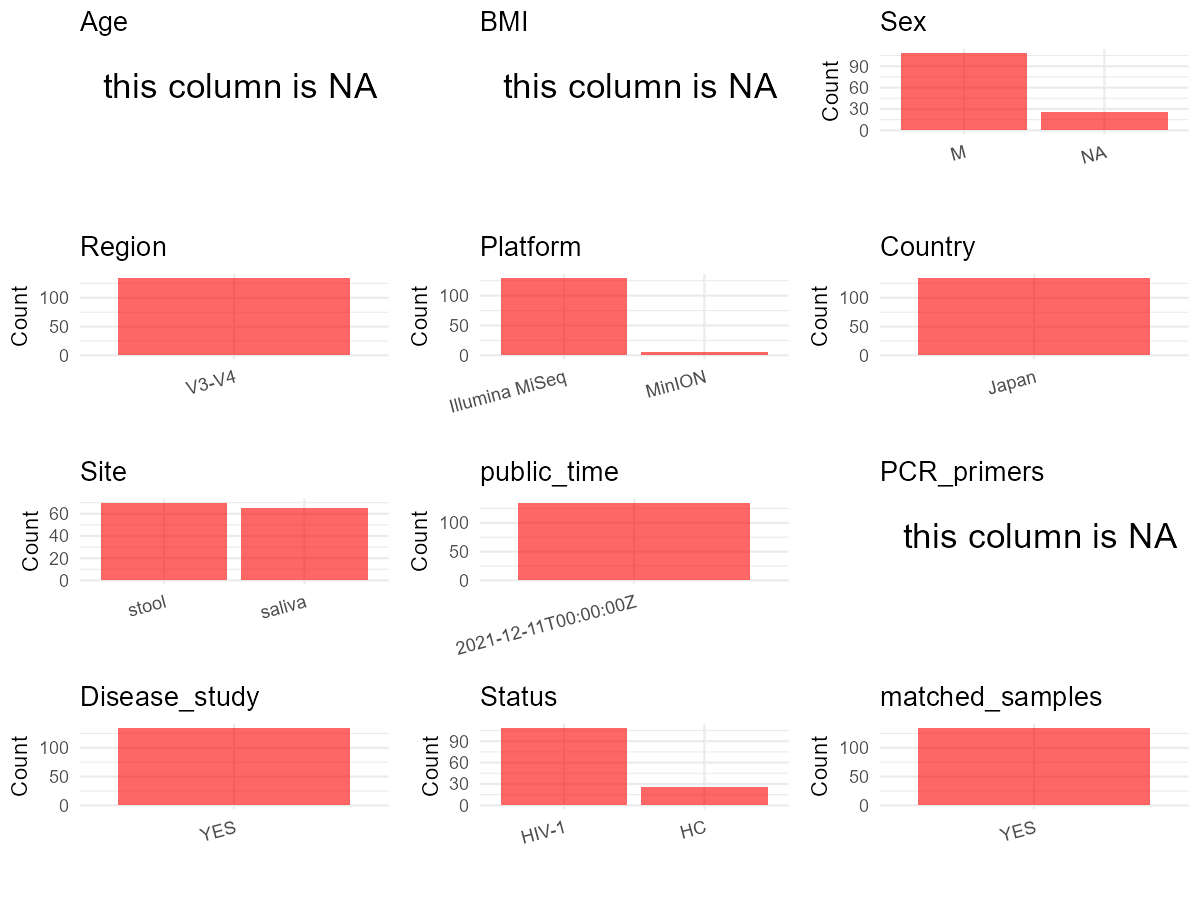
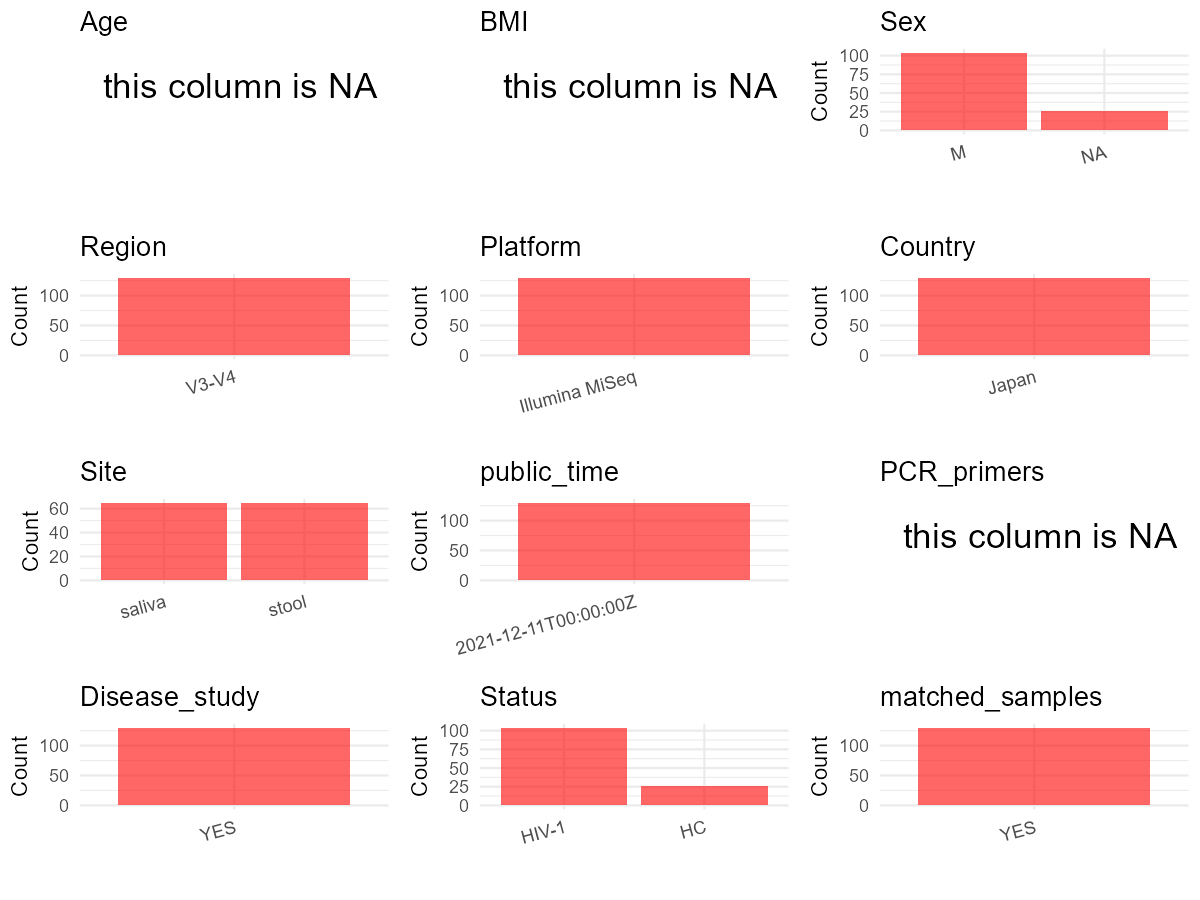
upload files for PRJDB9093

diff --git a/data/projects/PRJDB9093/metadata_curation.md b/data/projects/PRJDB9093/metadata_curation.md
@@ -139,7 +139,8 @@ metadata <- data.frame(
   #Site = initial_meta$isolate,
   public_time = initial_meta$ReleaseDate,
   stringsAsFactors = FALSE
-)
+) %>%
+  filter(Platform == "Illumina MiSeq")
 ```
 
 ``` r
@@ -192,7 +193,7 @@ metadata$matched_samples <- ifelse(metadata$sample_name %in% names(sample_counts
 print(paste("Number of unique runs:", length(unique(metadata$Run))))
 ```
 
-    ## [1] "Number of unique runs: 135"
+    ## [1] "Number of unique runs: 130"
 
 ``` r
 print(paste("Number of unique sample names:", length(unique(metadata$sample_name))))
